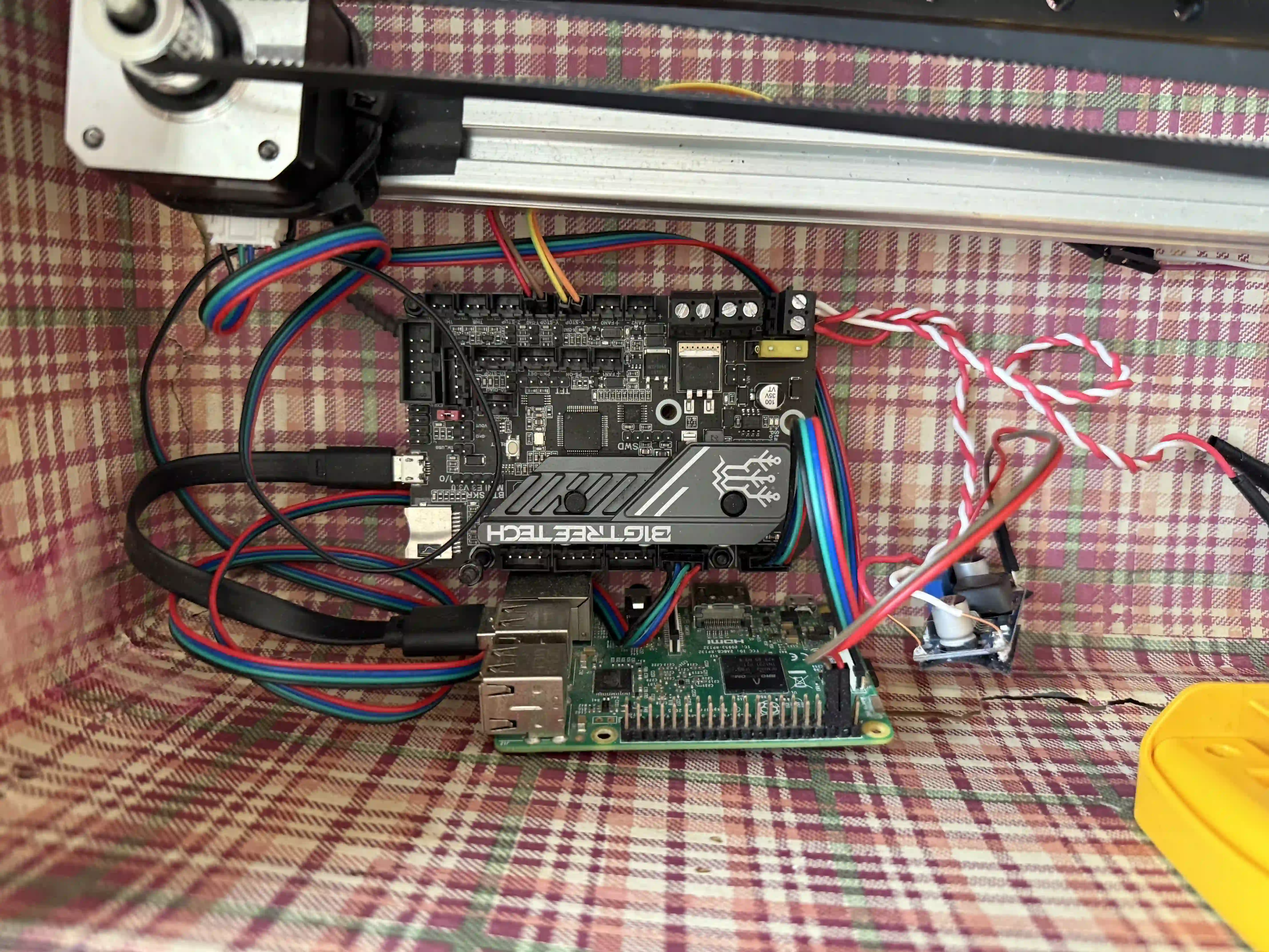
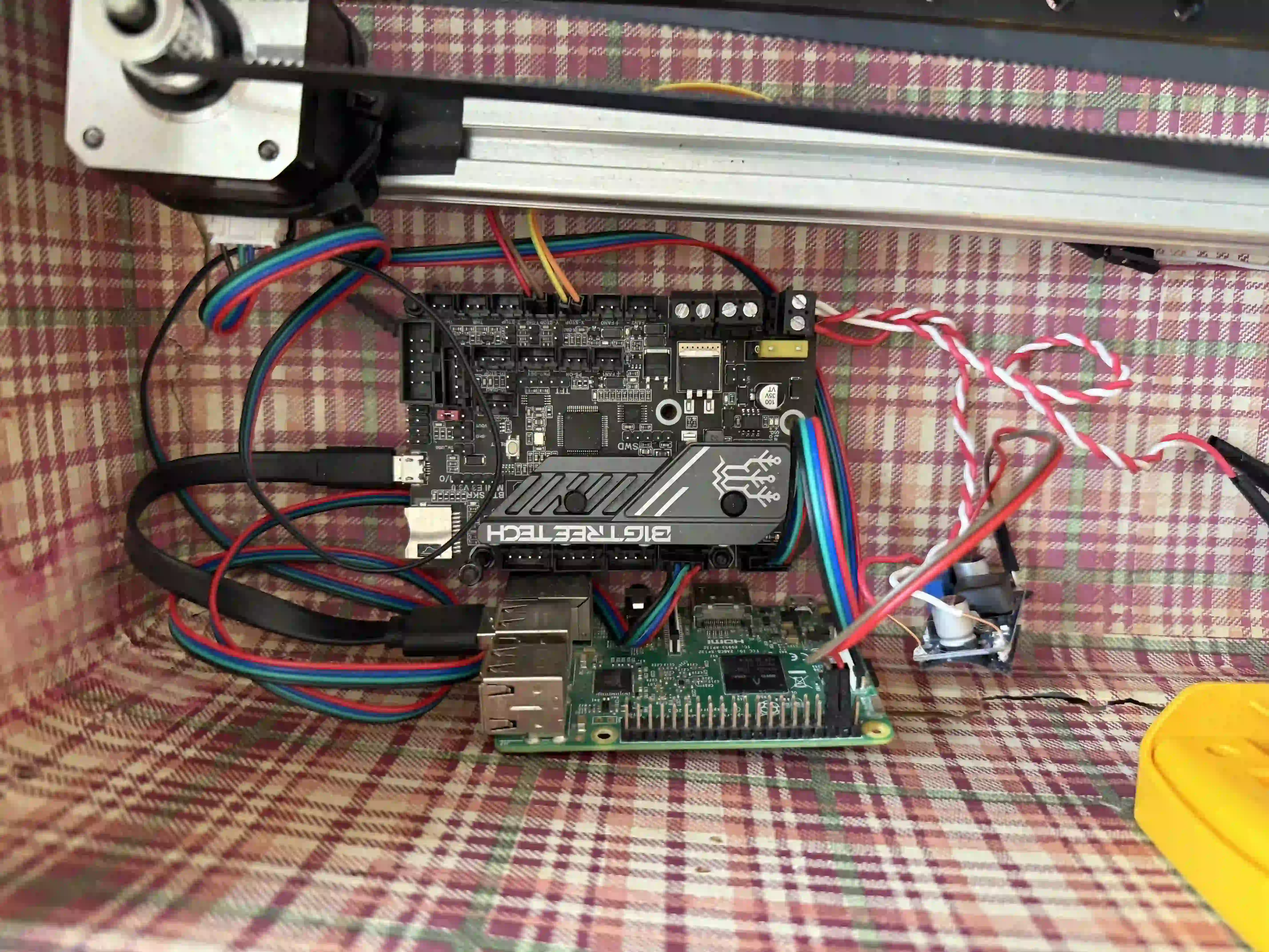
fix: replaced all ref to .webp, no more png or jpg (minus noise)

diff --git a/src/pages/articles/path-finding.md b/src/pages/articles/path-finding.md
@@ -5,7 +5,7 @@ dateWritten: May 2026
 timeSpan: March 2026 - May 2026
 ---
 
-![fig 2.4](../../../public/img/path_finding_fig_0.jpg)
+![fig 2.4](../../../public/img/path_finding_fig_0.webp)
 
 As a computer science major, all I know is creating code that changes pixels on a screen. In past projects, I have found it to be almost impossible to be satisfied with the things that I have created when it is so easy to push just a few more line of code to make it that little bit better. I wanted to make something tangible that challenged me to put my engineering skills to work, something that I could be proud of. I now somewhat resent the field that I once loved, and just in time to receive my degree. The damage that corporations that lead in this field have done so much damage. “Move fast and break things” is not a righteous way to run a business. So much damage has been done to the environment ([2](#2)), of which I reference directly in this piece. They have also distilled our trust in things we once considered ground truth, the changes in how we as humans communicate, plus they don't pay their share of taxes ([4](#4)), just to name a few.
 
@@ -14,12 +14,12 @@ The concept came naturally from this frustration, if computer science is consumi
 The first thing that I started to work on was the electronics. I got a few 20V DeWalt batteries that needed to be stepped down for the other components I had acquired. I needed 12V for my SKR board that provided silent movement of the motors and logic of the movement via a CoreXY 1 configuration. I also needed to step down to 5V from there in order to power the raspberry pi running that sends the commands via a python library to the SKR and has all of my code for the positioning of the head on it ([_fig 2_](#fig-2)). 
 
 ##### _Fig 1_
-![fig 2.4](../../../public/img/path_finding_fig_1.jpg)
+![fig 2.4](../../../public/img/path_finding_fig_1.webp)
 
 Once the components where proved to be functional and this idea viable, I built out the frame from 2020 aluminum. Inside of this frame there needed to be support to maintain smooth motion. For the y support, I used two 400mm guide rails attached to the frame at the max x and min x. For x support I attached a 600mm guide rail directly to the two 400mm rails. On top of the 600mm rail I placed a magnet on top of 4 screws, just tall enough to be able to hold a magnet thru the sewing mat. Then the stepper motors where secured to the frame and so were the the supports for the [CoreXY setup](https://corexy.com/theory.html). Next was to get the CoreXY set up and functional. A belt was ran thru as per the documentation ([1](#1)) calls for and it all attached to the head. Finally for this frame I made the support for the sewing mat, just enough distance so that the powerful rare earth magnets would be close enough to glide across the surface ([_fig 2_](#fig-2)).
 
 ##### _fig 2_
-![fig 2](../../../public/img/path_finding_fig_2.jpg)
+![fig 2](../../../public/img/path_finding_fig_2.webp)
 
 While I was building out the frame, I was planning the Chia seeds so that they would grow in the time before the showcase for about 2 weeks. I placed paper towel across the entire sewing mat, dampened it all, and carefully placed chia seeds in the general area that I wanted them to grow. This was not my first time growing chia seeds but it was the biggest scale I have ever tried it at, this one having to be sprayed with water multiple times per day instead of having a greenhouse effect as it was too large for any of my containers. When the chia had rooted itself for about a week I cut out all of the paper that did not have any chia on it and tucked it the rest under growth and glued down the islands. 
 
@@ -28,7 +28,7 @@ Finally it came time to code. I manually went thru and map out the x and y value
 The last physical element I built was the figure itself ([_fig 3_](#fig-3)) a small form whittled from wood, with a sewing needle arm and a ball of aluminum foil serving as the wrecking ball. It was very simple, but it carried the most meaning, and made the entire piece feel more alive with the constant swaying of the ball, hitting the chia seeds every step along the way.
 
 ##### _fig 3_:
-![fig 3](../../../public/img/path_finding_fig_3.jpg)
+![fig 3](../../../public/img/path_finding_fig_3.webp)
 
 In the last few hours of the final showcase I ran my suitcase for about an hour with 80 grit sandpaper glued to a magnet. This was so that I could show the wear patterns of the path that was created and show the little bit of variance in its path that was programmed into the RasPi’s motion logic.
 

diff --git a/src/pages/articles/donations.md b/src/pages/articles/donations.md
@@ -4,7 +4,7 @@ title: Donations
 dateWritten: January 2026
 timeSpan: April 2024
 ---
-![donation](../../../public/img/donate.png)
+![donation](../../../public/img/donate.webp)
 <br/>In the fall of 2023, there was a van on my college campus handing out free paninis. All you had to do was a quick mouth swap for Be The Match (now NMDP - but I like the original name more). As a college student, I of course would rather have a free meal than a financed one, so I rub the cotton swab around my mouth, put it in its little container, and hand it back to the Be The Match folks. About a year later I get a call that I am a match for an individual with leukemia. After over a weeks worth of G-CSF injections to increase my stem cell count, I traveled a few hours to a facility that they could preform the donation by filtering out all of my peripheral "good stuff". The actual donation only took about 3 hours of what I was told would be a 4 - 6 hour process. They probably have a fully redacted plaque of me hung up in that building, cause I defiantly set a record.
 
 Ive gotten pretty used to needles in part because of this experience. I remember when I was very young I had to be restrained by 3 people in order to get my flu shot, but not anymore, if that was the case I would need a bakers dozen at the minimum. I also got the chance to do a blood donation at NEB in 2025 where I found out I am the universal donor, so I have also been doing blood donations as well, even more so reducing that fear of needles. Now Im one of those guys that requests to see the bag as it is filling up, and when I got a really bad cut that required 13 stitches, I was the guy that watched the entire thing happen. Its such an interesting process to me, my blood is going right into a bag that will then be hooked up to someone else.

diff --git a/src/pages/articles/ipod.md b/src/pages/articles/ipod.md
@@ -7,7 +7,7 @@ timeSpan: 'Feb 2024 - Now'
 ---
 The first IPod that I ever used I stole from my dad. It was in the bottom of a bin of wires, buried under other old tech. Some of that old tech I have used for other things as well, for example one of his old computers (lovingly named "UTER" as it is a dell laptop from 2008 running windows 11, its not a very COMPetent compUTER) has a CD/RW drive, so it has been converted into my dedicated machine for cd ripping and burning, which is how I get flac files => cd quality mp3s => Music (rip iTunes) => IPod  
 
-![music means a lot to me](../../../public/img/walkman.png)
+![music means a lot to me](../../../public/img/walkman.webp)
 
 ##### Mini Green Monster - 128g:
 At some point in my modding of this IPod I misplaced all of the screws that would keep it together. Thinking on my feet, I temporarily used a piece of electrical tape to keep it from falling apart. That temporary solution was deployed in May 2025 and is still holding strong. The battery in this ipod is very small and can not hold a charge for too much longer than a day, so I really only use it in the house. I typically have it plugged into my stereo system that is a mix of some speakers I found on the side of the road, speakers that my dad had no use for anymore (out of another one of his piles), and equipment that I was handed down from my grandparents when they upgraded from their 5 cd player (it is awesome and I use it everyday) + amp.  

diff --git a/src/pages/articles/brig-wom.md b/src/pages/articles/brig-wom.md
@@ -25,6 +25,6 @@ At the start of a game, the user sends a create/update (one user should only be 
 
 In the first meetings with my team, we created our schema and database outline. This was a CRUD database using SQL so we created our ERDs for what we needed in the database. We needed to accommodate users, some with admin status, and out line "nodes and edges". These were used by the algorithms team to create paths from one location, potentially up or down 4 flights of stairs through the hospital. This is the only ERD that I was able to recover, this is one of many. They had to be built by parsing through a csv file. We were given a new csv file every week so we had to also accommodate uploading new csv files, and downloading in case we needed to record the current state of the database to store or upload again after testing.  
 
-![node edges ERD](/img/node_edges.jpg)
+![node edges ERD](/img/node_edges.webp)
 
 ![gamer gabriel](/img/bouncing-gabriel.gif)
